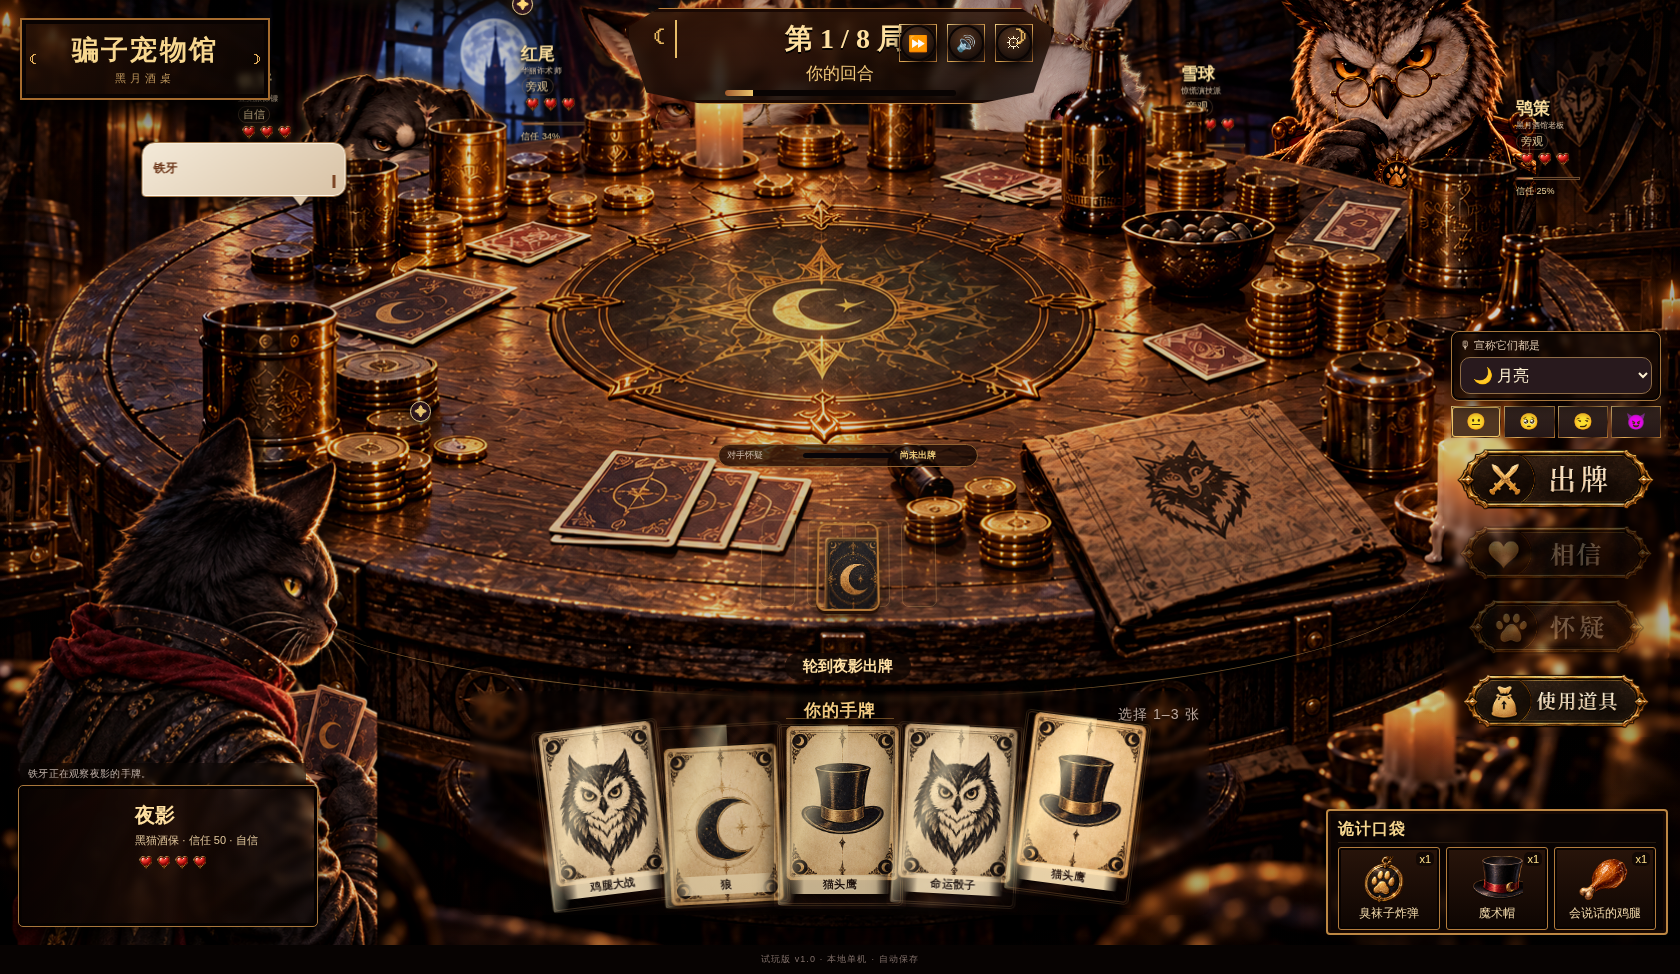
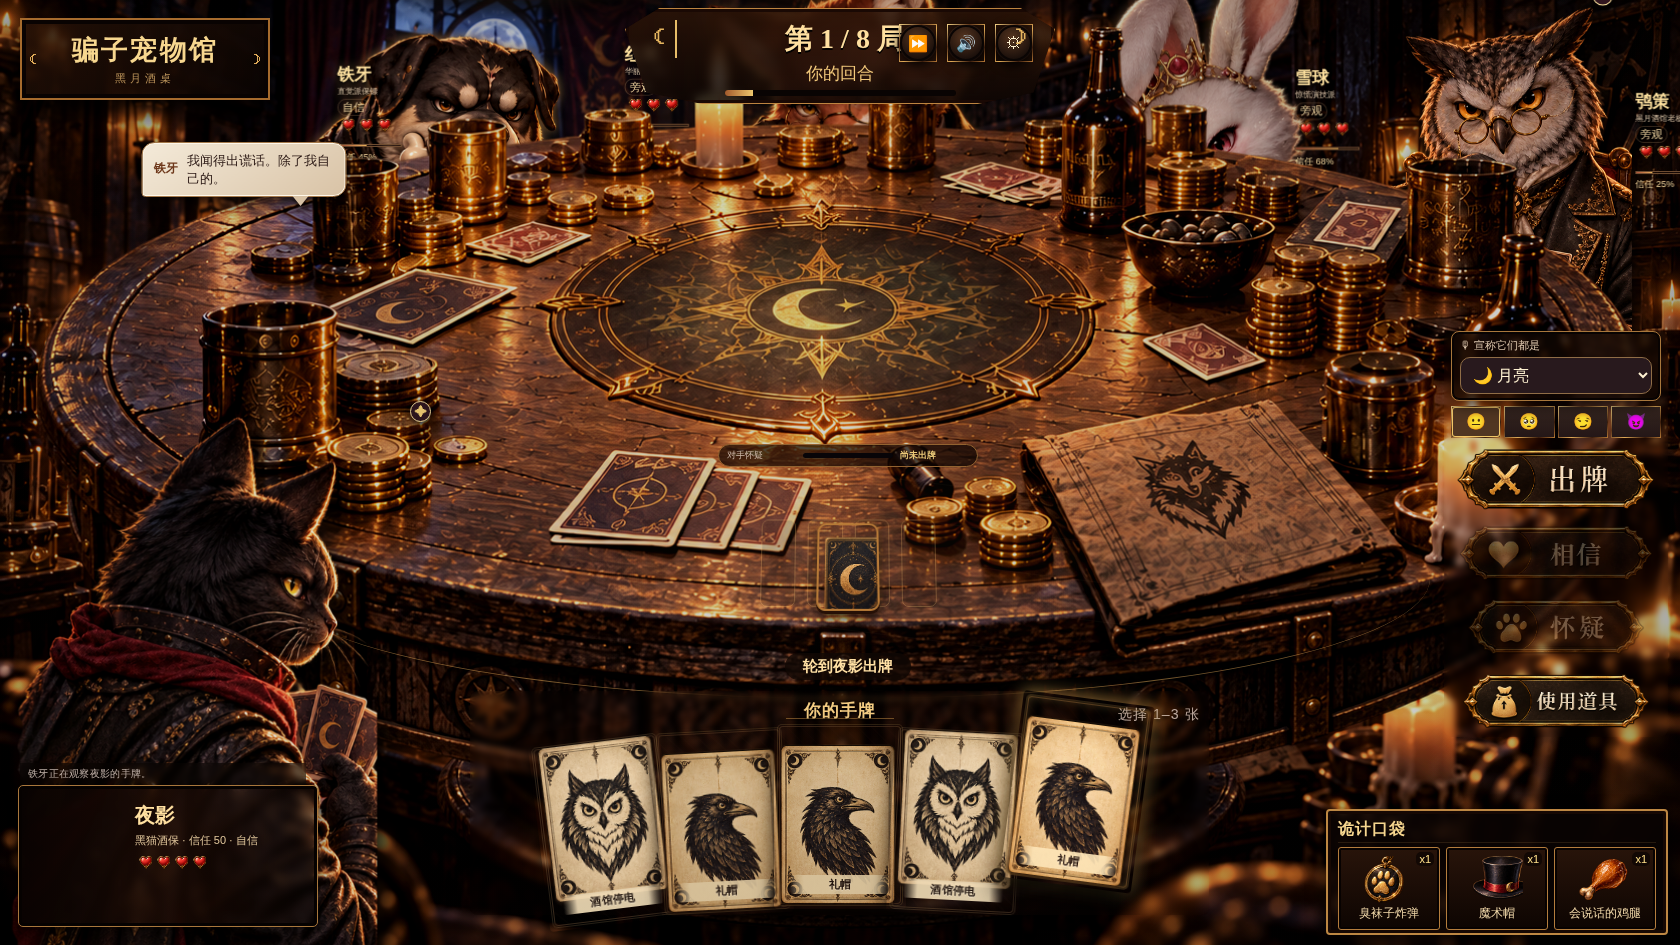
align battle characters with layered table

diff --git a/styles.css b/styles.css
@@ -711,16 +711,13 @@ body.penalty-vignette:after{content:"";position:fixed;z-index:999;inset:0;pointe
   .battle .opponent{height:100%;overflow:visible;filter:drop-shadow(0 14px 10px rgba(0,0,0,.72))}
   .battle .opponent .avatar{inset:0!important;overflow:visible}
   .battle .opponent .portrait-motion{inset:0;overflow:visible}
-  .battle .opponent .portrait-motion>img{opacity:1!important;width:100%;height:100%;max-width:none;max-height:none;object-fit:contain!important;object-position:center bottom!important;transform:none!important;mask-image:linear-gradient(#000 0 97%,transparent 100%);-webkit-mask-image:linear-gradient(#000 0 97%,transparent 100%);filter:brightness(.98) saturate(1.02) contrast(1.04) drop-shadow(0 8px 5px rgba(0,0,0,.65))}
+  .battle .opponent .portrait-motion>img{opacity:1!important;width:100%;height:100%;max-width:none;max-height:none;object-fit:contain!important;object-position:center bottom!important;transform:none!important;filter:brightness(.98) saturate(1.02) contrast(1.04) drop-shadow(0 8px 5px rgba(0,0,0,.65))}
   .battle .opponent:nth-child(1) .avatar{inset:9% -4% 0 -4%!important}
   .battle .opponent:nth-child(2) .avatar{inset:-2% -3% 0 -3%!important}
   .battle .opponent:nth-child(3) .avatar{inset:-5% -2% 0 -2%!important}
   .battle .opponent>div{z-index:8;width:126px;padding:3px 6px;text-shadow:0 2px 3px #000,0 0 9px #000}
   .battle .opponent:nth-child(1)>div{left:-3%;top:5%}.battle .opponent:nth-child(2)>div{left:-18%;right:auto;top:4%}.battle .opponent:nth-child(3)>div{right:-32%;top:8%}
 
-  .battle .table-depth-layer{display:block;position:absolute;left:0;top:40%;width:100%;height:auto;pointer-events:none;object-fit:contain;object-position:center top;filter:brightness(.82) saturate(.96) contrast(1.04)}
-  .battle .table-middle-layer{z-index:7;clip-path:inset(0 0 70% 0)}
-  .battle .table-front-occlusion{z-index:9;clip-path:inset(8% 0 0 0);opacity:.98}
   .battle .table-zone{z-index:12;left:34%;top:48%;width:33%;height:24%}
   .battle .table-zone:before{inset:6% -55% -8%;border-bottom:1px solid rgba(238,178,93,.48);box-shadow:0 12px 22px rgba(0,0,0,.25)}
   .battle .speech{z-index:14;top:-128%}
@@ -742,15 +739,15 @@ body.penalty-vignette:after{content:"";position:fixed;z-index:999;inset:0;pointe
 .battle .topbar,.battle .battle-brand,.battle .player-strip,.battle .hand-area,.battle .controls,.battle .items,.battle .log-panel,.battle .motion-log,.battle .round-progress{z-index:30}
 
 @media(min-width:900px){
-  .battle .opponents{z-index:5;left:15%;right:8%;top:10%;height:49%;grid-template-columns:repeat(4,minmax(0,1fr));gap:0;align-items:end;overflow:visible}
+  .battle .opponents{z-index:5;left:21%;right:1%;top:10%;height:49%;grid-template-columns:repeat(4,minmax(0,1fr));gap:0;align-items:end;overflow:visible}
   .battle .opponent{height:100%;overflow:visible}
   .battle .opponent .avatar{inset:0!important;overflow:visible}
   .battle .opponent .portrait-motion{inset:0;overflow:visible}
   .battle .opponent .portrait-motion>img{opacity:1!important;width:100%;height:100%;max-width:none;max-height:none;object-fit:contain!important;object-position:center bottom!important;transform:none!important;mask-image:none!important;-webkit-mask-image:none!important;filter:brightness(.98) saturate(1.02) contrast(1.04) drop-shadow(0 8px 5px rgba(0,0,0,.65))}
-  .battle .opponent:nth-child(1) .avatar{inset:7% -6% 0 -6%!important}
-  .battle .opponent:nth-child(2) .avatar{inset:-1% -7% 0 -7%!important}
-  .battle .opponent:nth-child(3) .avatar{inset:-4% -6% 0 -6%!important}
-  .battle .opponent:nth-child(4) .avatar{inset:4% -3% 0 -3%!important}
+  .battle .opponent:nth-child(1) .avatar{inset:0 -18% -5%!important}
+  .battle .opponent:nth-child(2) .avatar{inset:0!important}
+  .battle .opponent:nth-child(3) .avatar{inset:3% 8% 0!important}
+  .battle .opponent:nth-child(4) .avatar{inset:6% 10% 0!important}
   .battle .opponent>div{z-index:31;width:112px;padding:3px 5px;text-shadow:0 2px 3px #000,0 0 9px #000}
   .battle .opponent:nth-child(1)>div{left:-6%;top:10%}.battle .opponent:nth-child(2)>div{left:-18%;right:auto;top:5%}.battle .opponent:nth-child(3)>div{right:-20%;top:10%}.battle .opponent:nth-child(4)>div{right:-24%;top:18%}
   .battle .table-zone{z-index:15;left:34%;top:47%;width:33%;height:25%}
@@ -766,9 +763,9 @@ body.penalty-vignette:after{content:"";position:fixed;z-index:999;inset:0;pointe
 @media(min-width:900px){
   /* 完整立绘向后排座位抬高，身体由 duzo 的真实桌面像素自然遮挡。 */
   .battle .opponents{top:-8%;height:51%}
-  .battle .opponent:nth-child(1) .avatar{inset:7% -6% 0 -6%!important}
-  .battle .opponent:nth-child(2) .avatar{inset:-1% -7% 0 -7%!important}
-  .battle .opponent:nth-child(3) .avatar{inset:-4% -6% 0 -6%!important}
-  .battle .opponent:nth-child(4) .avatar{inset:4% -3% 0 -3%!important}
-  .battle .opponent:nth-child(1)>div{top:30%}.battle .opponent:nth-child(2)>div{top:24%}.battle .opponent:nth-child(3)>div{top:29%}.battle .opponent:nth-child(4)>div{top:35%}
+  .battle .opponent:nth-child(1) .avatar{inset:0 -18% -5%!important}
+  .battle .opponent:nth-child(2) .avatar{inset:0!important}
+  .battle .opponent:nth-child(3) .avatar{inset:3% 8% 0!important}
+  .battle .opponent:nth-child(4) .avatar{inset:6% 10% 0!important}
+  .battle .opponent:nth-child(1)>div{top:29%}.battle .opponent:nth-child(2)>div{top:25%}.battle .opponent:nth-child(3)>div{top:30%}.battle .opponent:nth-child(4)>div{top:34%}
 }
